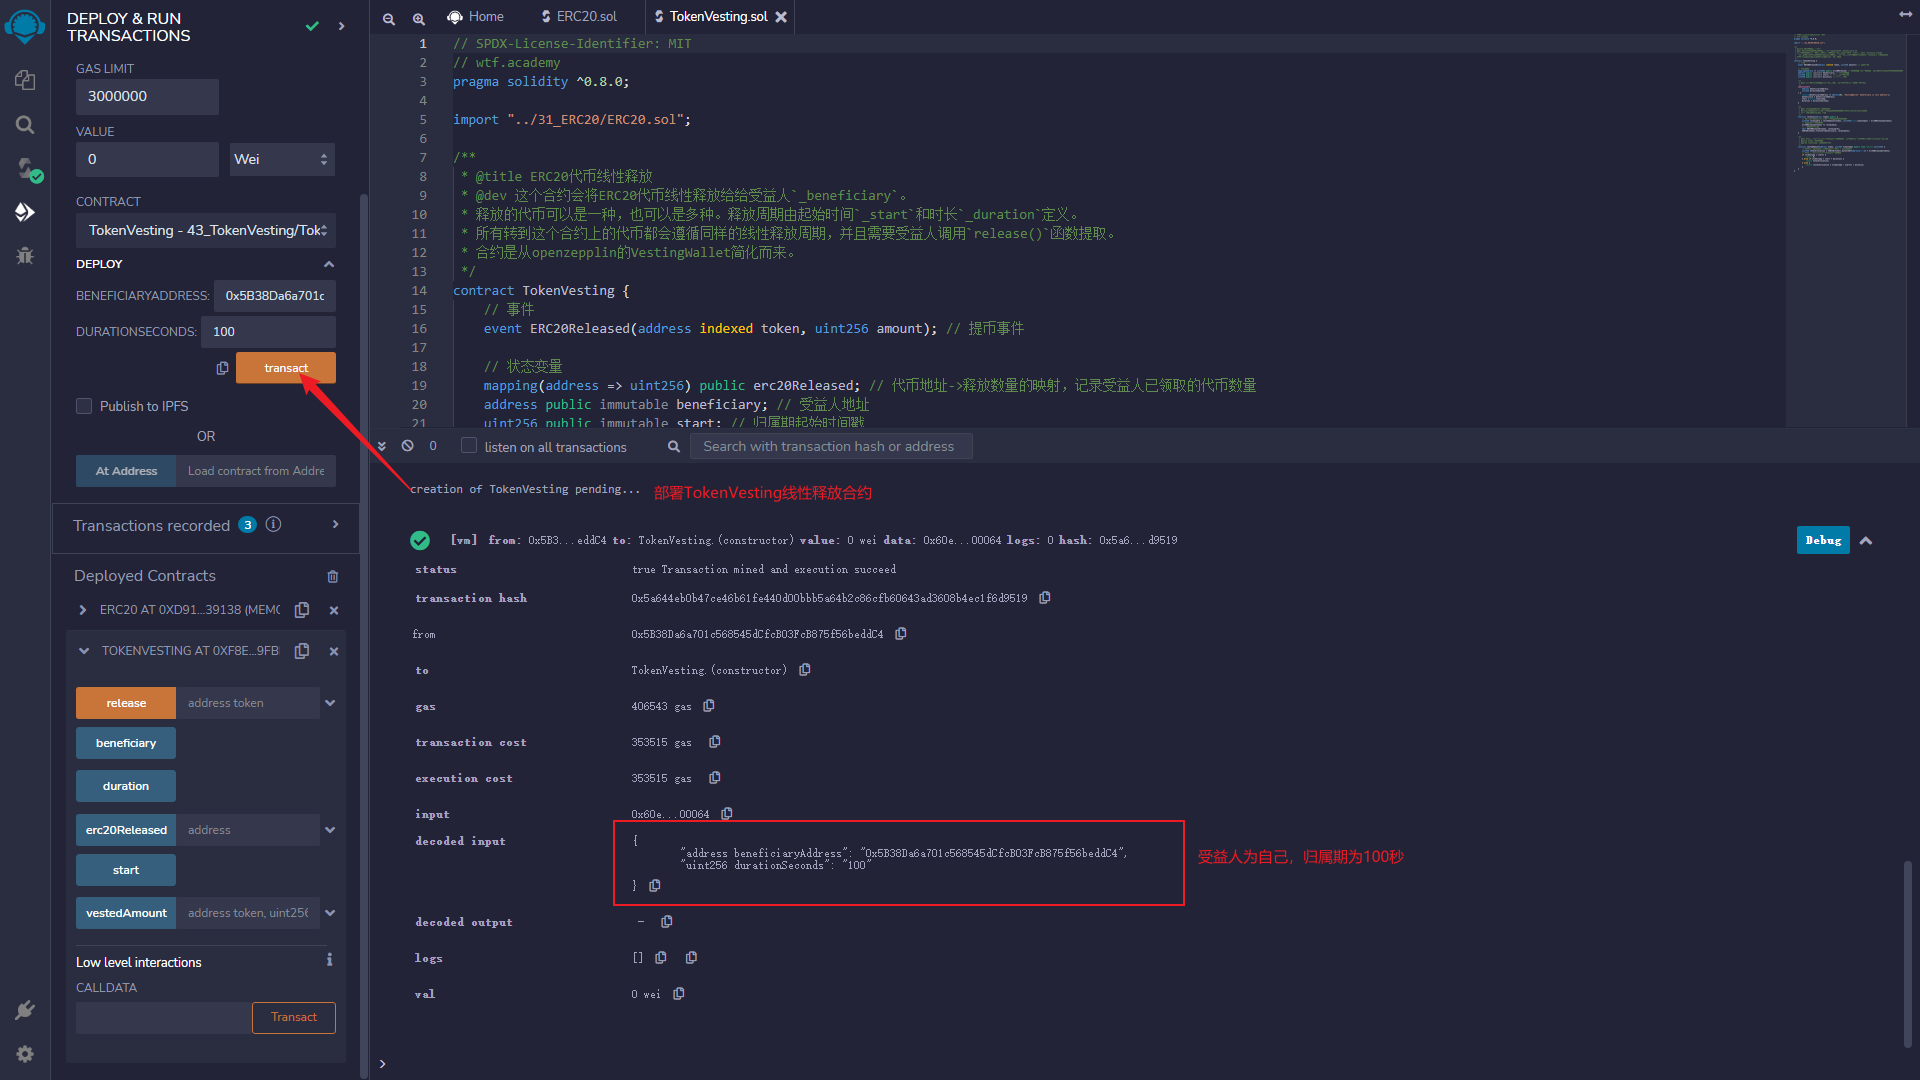
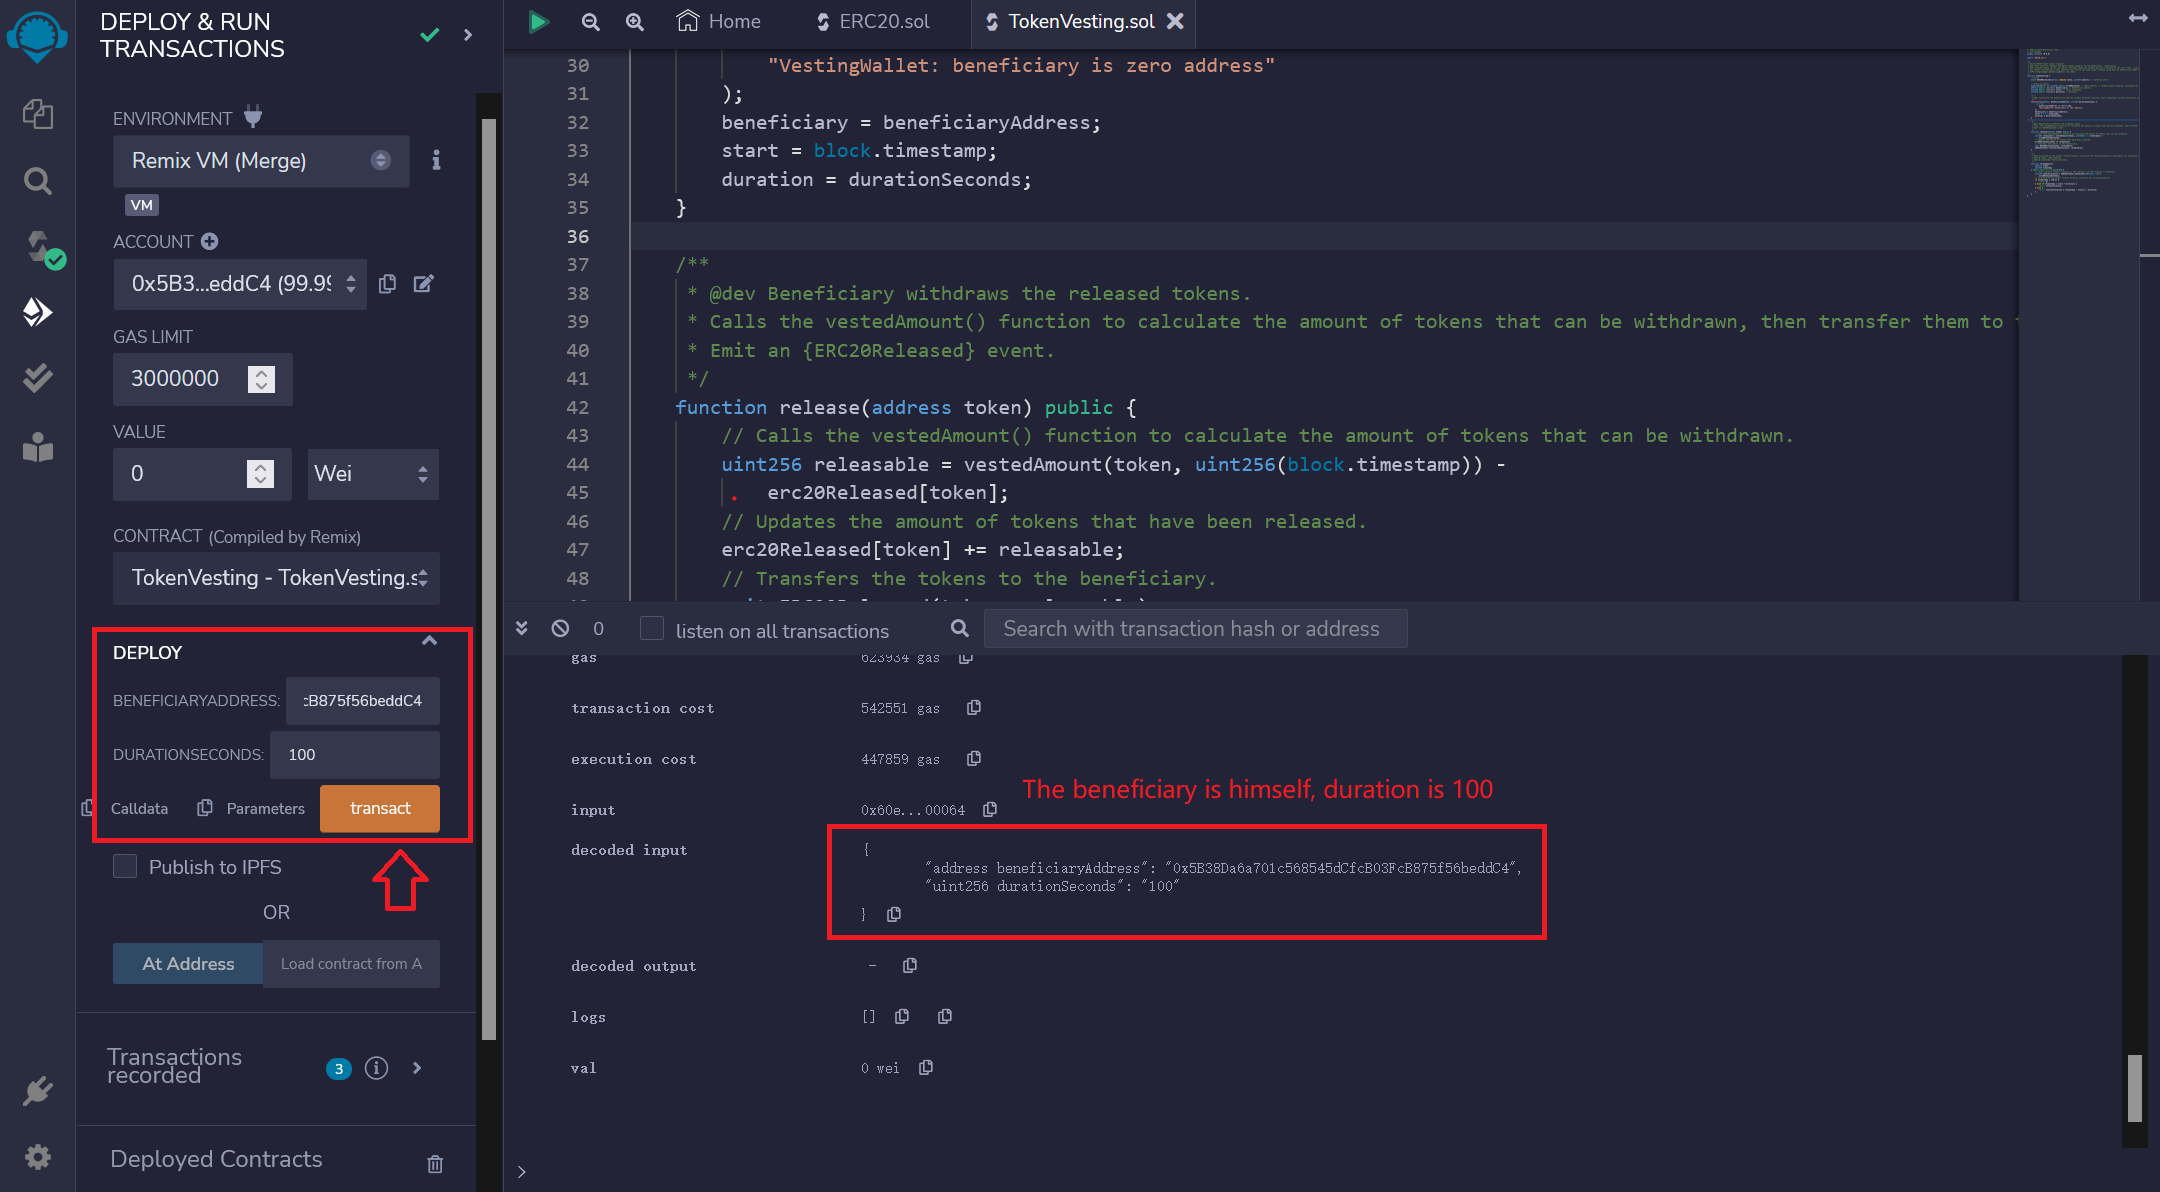
43 44

diff --git a/Languages/en/43_TokenVesting_en/readme.md b/Languages/en/43_TokenVesting_en/readme.md
@@ -4,7 +4,6 @@ tags:
   - solidity
   - application
   - ERC20
-
 ---
 
 # WTF Simplified Solidity: 43. Linear Release
@@ -17,7 +16,7 @@ Community: [Discord](https://discord.gg/5akcruXrsk)｜[WeChat Group](https://doc
 
 All code and tutorials are open-sourced on GitHub: [github.com/AmazingAng/WTFSolidity](https://github.com/AmazingAng/WTFSolidity)
 
------
+---
 
 In this lesson, we will introduce token vesting clauses and write a contract for linearly releasing ERC20 tokens. The code is simplified from OpenZeppelin's VestingWallet contract.
 
@@ -40,31 +39,36 @@ Now, let's write a contract TokenVesting for locking and linearly releasing ERC2
 ### Events
 
 There is `1` event in the Linear Release contract.
+
 - `ERC20Released`: withdrawal event, triggered when the beneficiary withdraws the released tokens.
 
 ```solidity
 
 contract TokenVesting {
-    // 事件
-    event ERC20Released(address indexed token, uint256 amount); // 提币事件
+    // Event
+    event ERC20Released(address indexed token, uint256 amount); // Withdraw event
+
 ```
 
-### State Variables 
+### State Variables
+
 There are `4` state variables in the linear release contract.
+
 - `beneficiary`: the beneficiary address.
 - `start`: the starting timestamp of the vesting period.
 - `duration`: the duration of the vesting period in seconds.
 - `erc20Released`: a mapping of token address to the amount released, which records the amount of tokens the beneficiary has already claimed.
 
 ```solidity
-    // 状态变量
-    mapping(address => uint256) public erc20Released; // 代币地址->释放数量的映射，记录已经释放的代币
-    address public immutable beneficiary; // 受益人地址
-    uint256 public immutable start; // 起始时间戳
-    uint256 public immutable duration; // 归属期
+    // State variables
+    mapping(address => uint256) public erc20Released; // Token address -> release amount mapping, recording the number of tokens the beneficiary has received
+    address public immutable beneficiary; // Beneficiary address
+    uint256 public immutable start; // Start timestamp
+    uint256 public immutable duration; // Duration
 ```
 
 ### Functions
+
 There are `3` functions in the LinearVesting contract.
 
 - Constructor: initializes the beneficiary address, duration in seconds and starting timestamp. The constructor takes `beneficiaryAddress` and `durationSeconds` as input parameters. The starting timestamp is set to the deployment blockchain timestamp `block.timestamp` for convenience.
@@ -73,42 +77,47 @@ There are `3` functions in the LinearVesting contract.
 
 ```solidity
     /**
-     * @dev 初始化受益人地址，释放周期(秒), 起始时间戳(当前区块链时间戳)
+     * @dev Initialize the beneficiary address,release duration (seconds),start timestamp (current blockchain timestamp)
      */
-    constructor(
-        address beneficiaryAddress,
-        uint256 durationSeconds
-    ) {
-        require(beneficiaryAddress != address(0), "VestingWallet: beneficiary is zero address");
+    constructor(address beneficiaryAddress, uint256 durationSeconds) {
+        require(
+            beneficiaryAddress != address(0),
+            "VestingWallet: beneficiary is zero address"
+        );
         beneficiary = beneficiaryAddress;
         start = block.timestamp;
         duration = durationSeconds;
     }
 
     /**
-     * @dev 受益人提取已释放的代币。
-     * 调用vestedAmount()函数计算可提取的代币数量，然后transfer给受益人。
-     * 释放 {ERC20Released} 事件.
+     * @dev Beneficiary withdraws the released tokens.
+     * Calls the vestedAmount() function to calculate the amount of tokens that can be withdrawn, then transfer them to the beneficiary.
+     * Emit an {ERC20Released} event.
      */
     function release(address token) public {
-        // 调用vestedAmount()函数计算可提取的代币数量
-        uint256 releasable = vestedAmount(token, uint256(block.timestamp)) - erc20Released[token];
-        // 更新已释放代币数量   
-        erc20Released[token] += releasable; 
-        // 转代币给受益人
+        // Calls the vestedAmount() function to calculate the amount of tokens that can be withdrawn.
+        uint256 releasable = vestedAmount(token, uint256(block.timestamp)) -
+            erc20Released[token];
+        // Updates the amount of tokens that have been released.
+        erc20Released[token] += releasable;
+        // Transfers the tokens to the beneficiary.
         emit ERC20Released(token, releasable);
         IERC20(token).transfer(beneficiary, releasable);
     }
 
     /**
-     * @dev 根据线性释放公式，计算已经释放的数量。开发者可以通过修改这个函数，自定义释放方式。
-     * @param token: 代币地址
-     * @param timestamp: 查询的时间戳
+     * @dev According to the linear release formula, calculate the released quantity. Developers can customize the release method by modifying this function.
+     * @param token: Token address
+     * @param timestamp: Query timestamp
      */
-    function vestedAmount(address token, uint256 timestamp) public view returns (uint256) {
-        // 合约里总共收到了多少代币（当前余额 + 已经提取）
-        uint256 totalAllocation = IERC20(token).balanceOf(address(this)) + erc20Released[token];
-        // 根据线性释放公式，计算已经释放的数量
+    function vestedAmount(
+        address token,
+        uint256 timestamp
+    ) public view returns (uint256) {
+        // Total amount of tokens received in the contract (current balance + withdrawn)
+        uint256 totalAllocation = IERC20(token).balanceOf(address(this)) +
+            erc20Released[token];
+        // According to the linear release formula, calculate the released quantity
         if (timestamp < start) {
             return 0;
         } else if (timestamp > start + duration) {
@@ -121,17 +130,17 @@ There are `3` functions in the LinearVesting contract.
 
 ## `Remix` Demo
 
-### 1. Deploy the `ERC20` contract in [Lesson 31](../31_ERC20/readme.md), and mint yourself `10000` tokens.
+### 1. Deploy the `ERC20` contract in [Lesson 31](../31_ERC20/readme.md), and mint yourself `1000` tokens.
 
 ![Deploy ERC20](./img/43-2.png)
 
-![Mint 10000 tokens](./img/43-3.png)
+![Mint 1000 tokens](./img/43-3.png)
 
 ### 2. Deploy the `TokenVesting` contract for linear release, set yourself as the beneficiary, and set the vesting period to `100` seconds.
 
 ![Deploy TokenVesting](./img/43-4.png)
 
-### 3. Transfer `10000` `ERC20` tokens to the linear release contract.
+### 3. Transfer `1000` `ERC20` tokens to the linear release contract.
 
 ![Transfer tokens](./img/43-5.png)
 

diff --git a/Languages/en/44_TokenLocker_en/readme.md b/Languages/en/44_TokenLocker_en/readme.md
@@ -15,7 +15,7 @@ You are also welcome to join the WTF Scientists community and find information o
 
 All of the code and tutorials are open source and can be found on Github (I will provide a course certification for 1024 stars and a community NFT for 2048 stars): [github.com/AmazingAng/WTFSolidity](https://github.com/AmazingAng/WTFSolidity)
 
------
+---
 
 ### Token Lock
 
@@ -47,9 +47,18 @@ There are two events in the `TokenLocker` contract.
 - `Release`: This event is triggered when the beneficiary withdraws the tokens. It records the beneficiary address, token address, release time, and token amount.
 
 ```solidity
-    // 事件
-    event TokenLockStart(address indexed beneficiary, address indexed token, uint256 startTime, uint256 lockTime);
-    event Release(address indexed beneficiary, address indexed token, uint256 releaseTime, uint256 amount);
+    event TokenLockStart(
+        address indexed beneficiary,
+        address indexed token,
+        uint256 startTime,
+        uint256 lockTime
+    );
+    event Release(
+        address indexed beneficiary,
+        address indexed token,
+        uint256 releaseTime,
+        uint256 amount
+    );
 ```
 
 ### State Variables
@@ -62,13 +71,13 @@ There are a total of 4 state variables in the `TokenLocker` contract:
 - `startTime`: the timestamp when the lock-up period starts (in seconds).
 
 ```solidity
-    // The ERC20 token contract which is being locked
+    // Locked ERC20 token contracts
     IERC20 public immutable token;
-    // The beneficiary's address
+    // Beneficiary address
     address public immutable beneficiary;
-    // Lock time (in seconds)
+    // Lockup time (seconds)
     uint256 public immutable lockTime;
-    // Start timestamp of the lock (in seconds)
+    // Lockup start timestamp (seconds)
     uint256 public immutable startTime;
 ```
 
@@ -81,30 +90,34 @@ There are `2` functions in the `TokenLocker` contract.
 
 ```solidity
     /**
-     * @dev 部署时间锁合约，初始化代币合约地址，受益人地址和锁仓时间。
-     * @param token_: 被锁仓的ERC20代币合约
-     * @param beneficiary_: 受益人地址
-     * @param lockTime_: 锁仓时间(秒)
+     * @dev Deploy the time lock contract, initialize the token contract address, beneficiary address and lock time.
+     * @param token_: Locked ERC20 token contract
+     * @param beneficiary_: Beneficiary address
+     * @param lockTime_: Lockup time (seconds)
      */
-    constructor(
-        IERC20 token_,
-        address beneficiary_,
-        uint256 lockTime_
-    ) {
+    constructor(IERC20 token_, address beneficiary_, uint256 lockTime_) {
         require(lockTime_ > 0, "TokenLock: lock time should greater than 0");
         token = token_;
         beneficiary = beneficiary_;
         lockTime = lockTime_;
         startTime = block.timestamp;
 
-        emit TokenLockStart(beneficiary_, address(token_), block.timestamp, lockTime_);
+        emit TokenLockStart(
+            beneficiary_,
+            address(token_),
+            block.timestamp,
+            lockTime_
+        );
     }
 
     /**
-     * @dev 在锁仓时间过后，将代币释放给受益人。
+     * @dev After the lockup time, the tokens are released to the beneficiaries.
      */
     function release() public {
-        require(block.timestamp >= startTime+lockTime, "TokenLock: current time is before release time");
+        require(
+            block.timestamp >= startTime + lockTime,
+            "TokenLock: current time is before release time"
+        );
 
         uint256 amount = token.balanceOf(address(this));
         require(amount > 0, "TokenLock: no tokens to release");
@@ -117,25 +130,25 @@ There are `2` functions in the `TokenLocker` contract.
 
 ## `Remix` Demonstration
 
-### 1. Deploy the `ERC20` contract in [Lesson 31](../31_ERC20/readme.md), and mint `10000` tokens for yourself.
+### 1. Deploy the `ERC20` contract in [Lesson 31](../31_ERC20/readme.md), and mint `10000` tokens for yourself
 
-![`Remix` Demonstration](./img/44-2.jpg)
+![`Remix` Demonstration](./img/44-2.png)
 
-### 2. Deploy the `TokenLocker` contract with the `ERC20` contract address, set yourself as the beneficiary, and set the lock-up period to `180` seconds.
+### 2. Deploy the `TokenLocker` contract with the `ERC20` contract address, set yourself as the beneficiary, and set the lock-up period to `180` seconds
 
-![`Remix` Demonstration](./img/44-3.jpg)
+![`Remix` Demonstration](./img/44-3.png)
 
-### 3. Transfer `10000` tokens to the contract.
+### 3. Transfer `10000` tokens to the contract
 
-![`Remix` Demonstration](./img/44-4.jpg)
+![`Remix` Demonstration](./img/44-4.png)
 
-### 4. Within the lock-up period of `180` seconds, call the `release()` function, but you won't be able to withdraw the tokens.
+### 4. Within the lock-up period of `180` seconds, call the `release()` function, but you won't be able to withdraw the tokens
 
-![`Remix` Demonstration](./img/44-5.jpg)
+![`Remix` Demonstration](./img/44-5.png)
 
-### 5. After the lock-up period, call the `release()` function again, and successfully withdraw the tokens.
+### 5. After the lock-up period, call the `release()` function again, and successfully withdraw the tokens
 
-![`Remix` Demo](./img/44-6.jpg)
+![`Remix` Demo](./img/44-6.png)
 
 ## Summary
 
